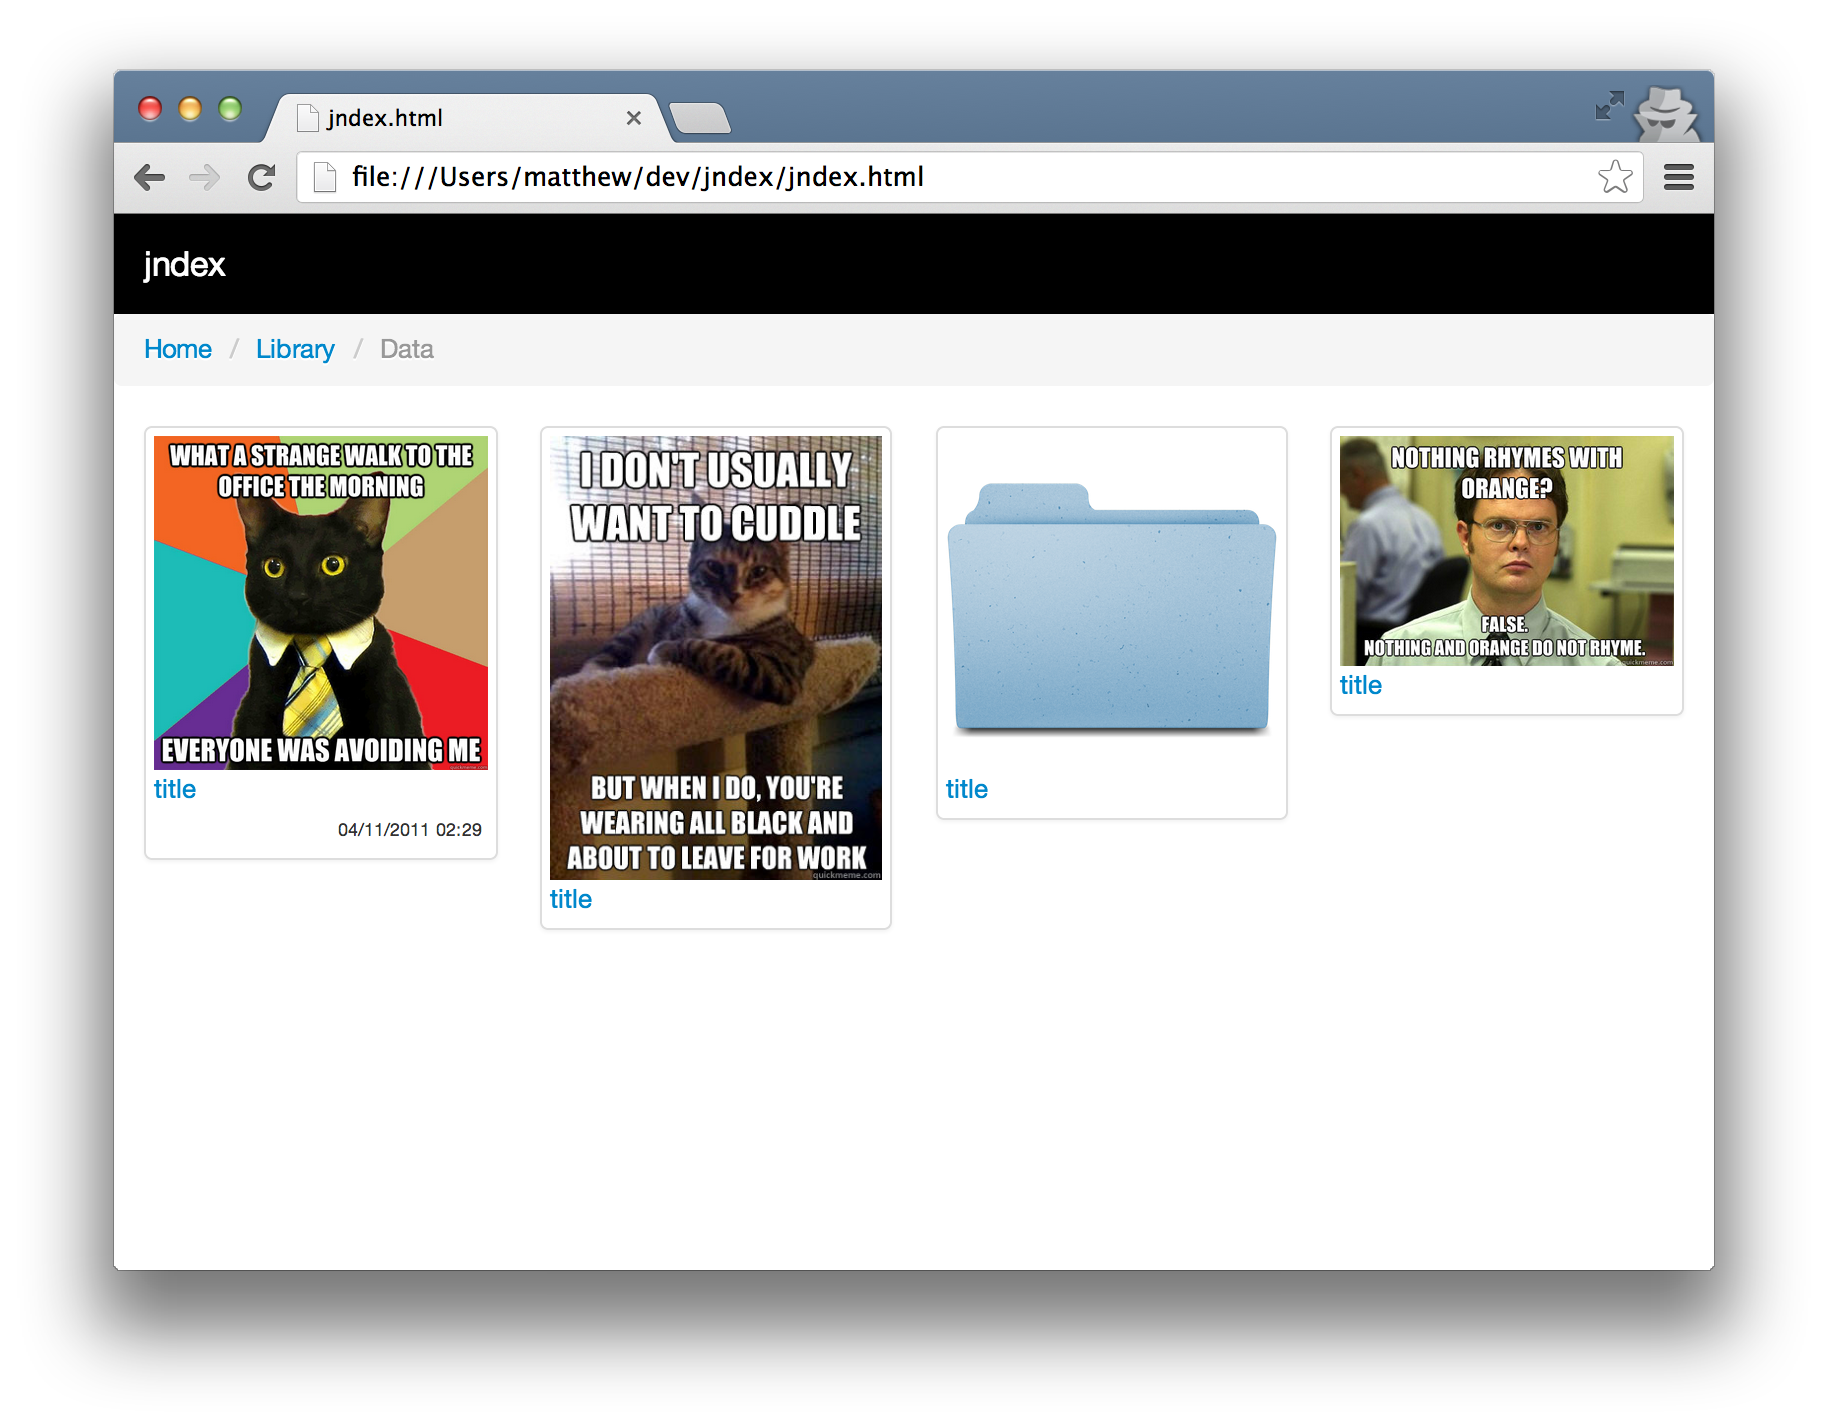
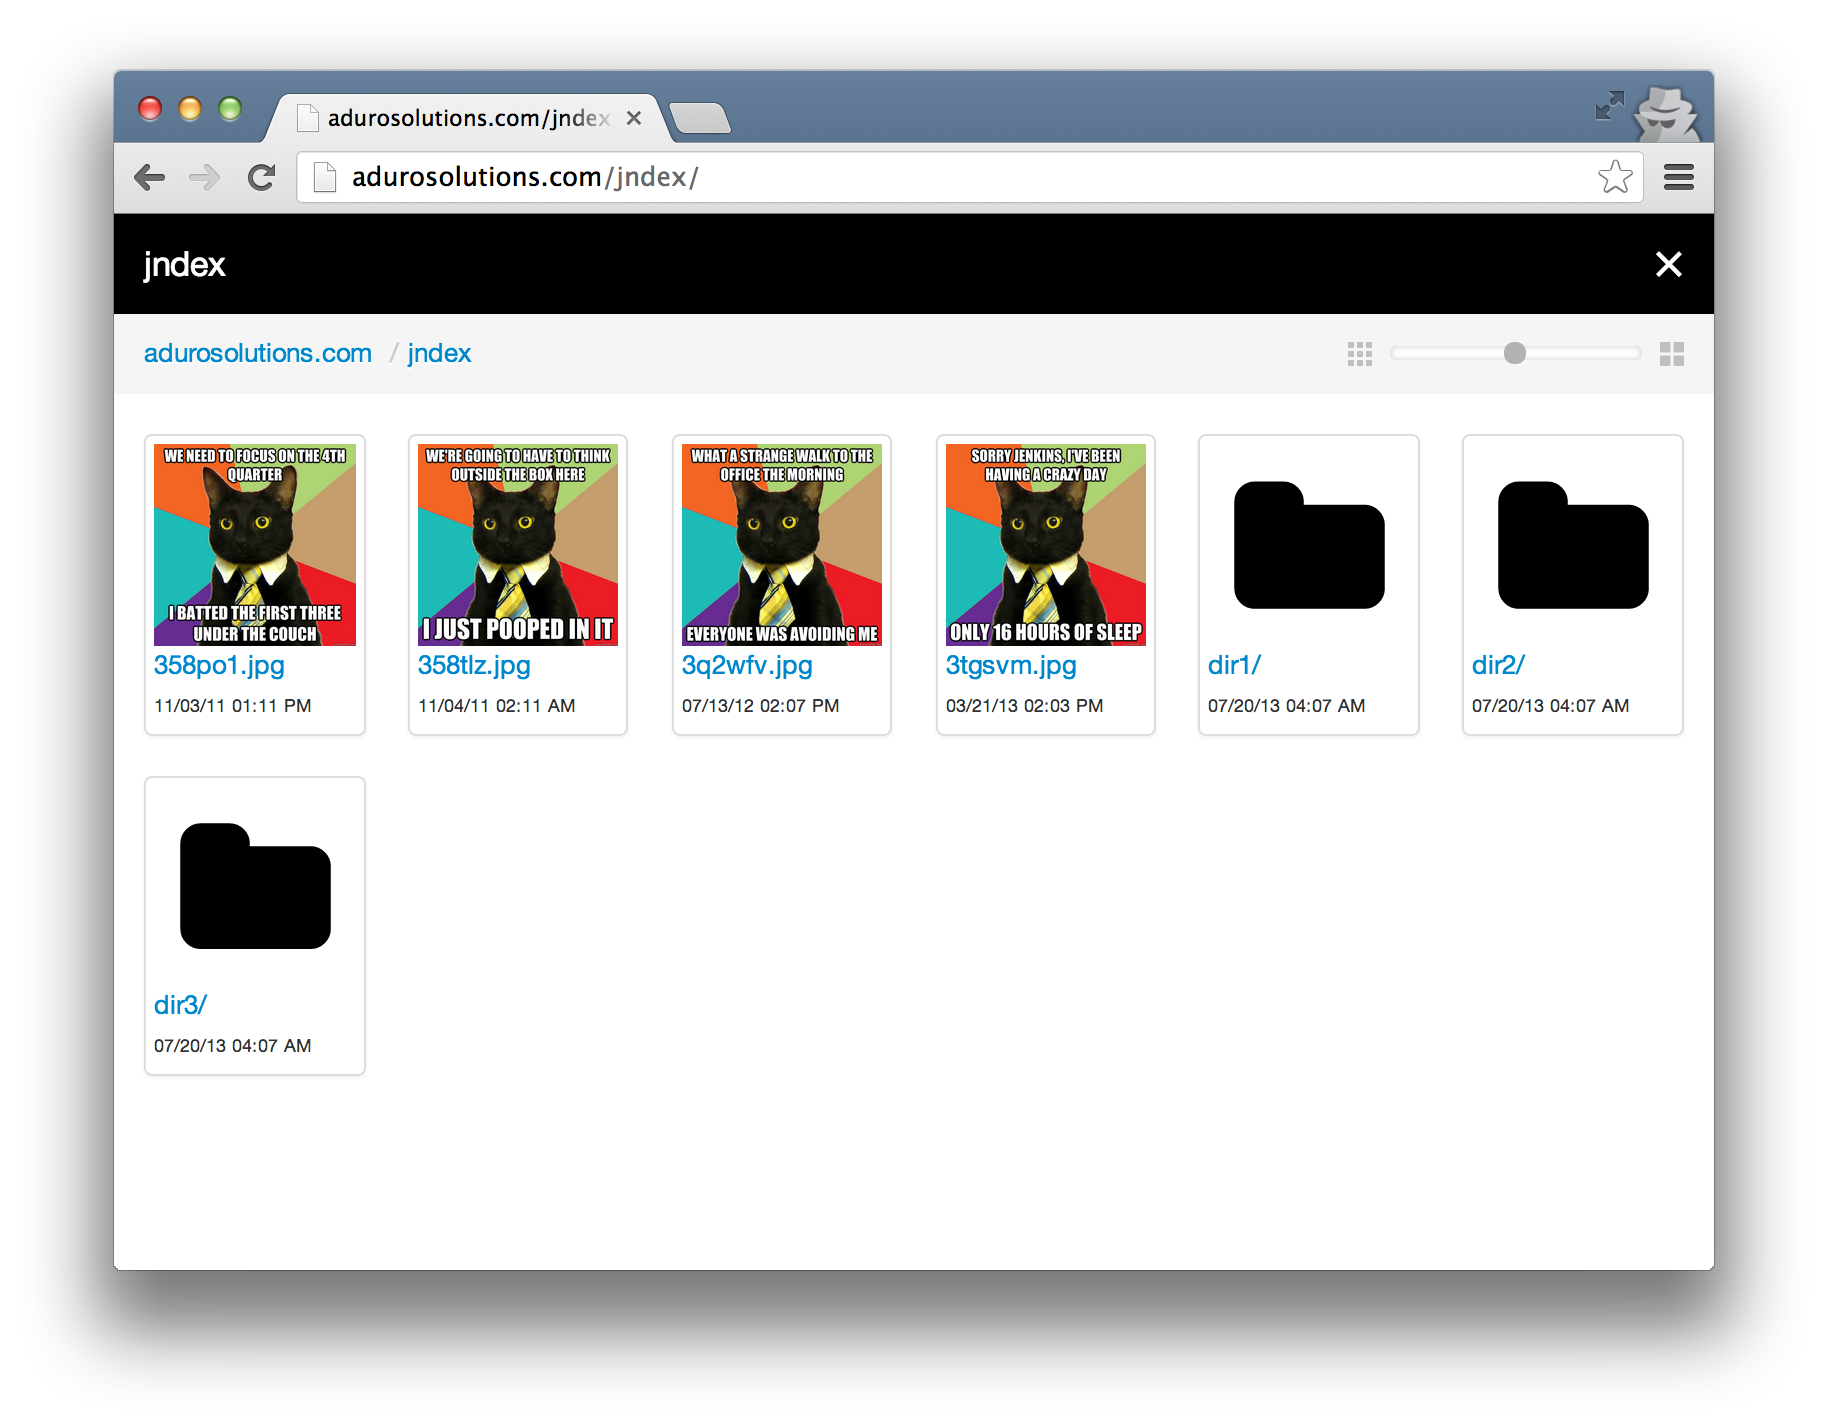
Tied slider change events into thumbnail size.

Changed region(s): [[0.0624, 0.2157, 0.9354, 0.7395], [0.1871, 0.0616, 0.4989, 0.1541], [0.9043, 0.2465, 0.9354, 0.2773]]

diff --git a/src/jndex.js b/src/jndex.js
@@ -239,6 +239,8 @@ define([
         }
     });
 
+    var thumbnail_class = 'span2';
+
     var FileView = Backbone.View.extend({
         tagName: 'li',
         compiled: _.template($('#file-template').html()),
@@ -254,7 +256,7 @@ define([
             $(this.el).trigger('openfile', this.model); 
         },
         render: function() {
-            $(this.el).addClass('span2 thumbnail').html(this.compiled({file: this.model.toJSON(), ICON_DATA: ICON_DATA}));
+            $(this.el).addClass(thumbnail_class + ' thumbnail').html(this.compiled({file: this.model.toJSON(), ICON_DATA: ICON_DATA}));
             return this;
         },
         clear: function() {
@@ -268,13 +270,20 @@ define([
         clear: null,
         currentFile: null,
         min_width: 0,
+        class_map: ['span1', 'span2', 'span3', 'span4', 'span6'],
         el: $('#jndex'),
         events: {
             'click #breadcrumb a': 'navigate',
             'openfile': 'openFile', 
             'click #overlay': 'closeFile',
             'click #lightbox': 'closeFile',
-            'click #error .close': 'hideError'
+            'click #error .close': 'hideError',
+            'slideChange #scale': 'resizeIcons'
+        },
+        resizeIcons: function(event) {
+            console.log(thumbnail_class, event.new);
+            $('#thumbnails .' + thumbnail_class).addClass(this.class_map[event.new]).removeClass(thumbnail_class);
+            thumbnail_class = this.class_map[event.new];
         },
         initialize: function() {
             console.log('JndexView.initialize');

diff --git a/src/loader.js b/src/loader.js
@@ -44,7 +44,7 @@
         '<ul id="breadcrumb" class="breadcrumb"></ul>' + 
         '<div id="scale" class="hidden">' +
             '<img src="SVG:small.svg" width="12px">' +
-            '<input id="slide" type="text" class="span2" value="" data-slider-min="4" data-slider-max="8" data-slider-step="1" data-slider-value="6" data-slider-selection="before" data-slider-tooltip="hide">' +
+            '<input id="slide" type="text" class="span2" value="" data-slider-min="0" data-slider-max="4" data-slider-step="1" data-slider-value="1" data-slider-selection="before" data-slider-tooltip="hide">' +
             '<img src="SVG:large.svg" width="12px">' + 
         '</div>' + 
     '</div>' + 

diff --git a/vendor/bootstrap-slider.js b/vendor/bootstrap-slider.js
@@ -258,6 +258,7 @@
 			}
 			this.percentage[this.dragged] = percentage;
 			this.layout();
+            var old = this.getValue();
 			var val = this.calculateValue();
 			this.element
 				.trigger({
@@ -266,6 +267,15 @@
 				})
 				.data('value', val)
 				.prop('value', val);
+            if (old != val) {
+                this.element
+                    .trigger({
+                        type: 'slideChange',
+                        new: val,
+                        old: old 
+                    })
+                    .data('value', val);
+            }
 			return false;
 		},
 
